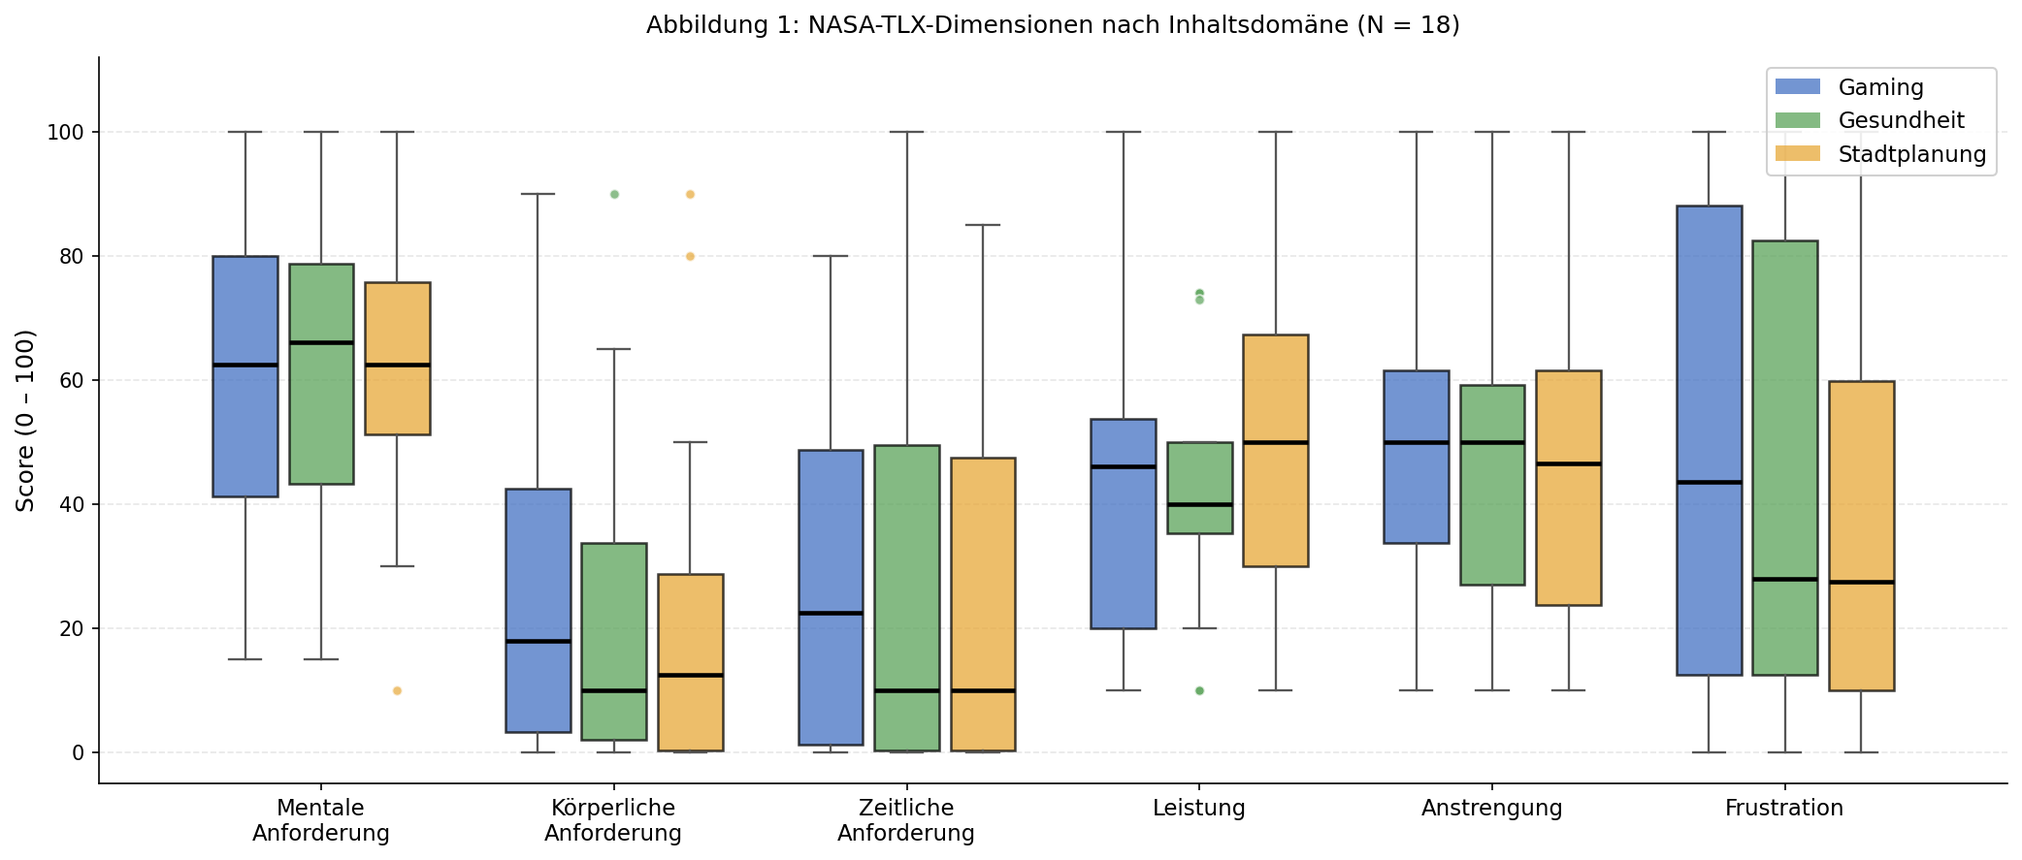
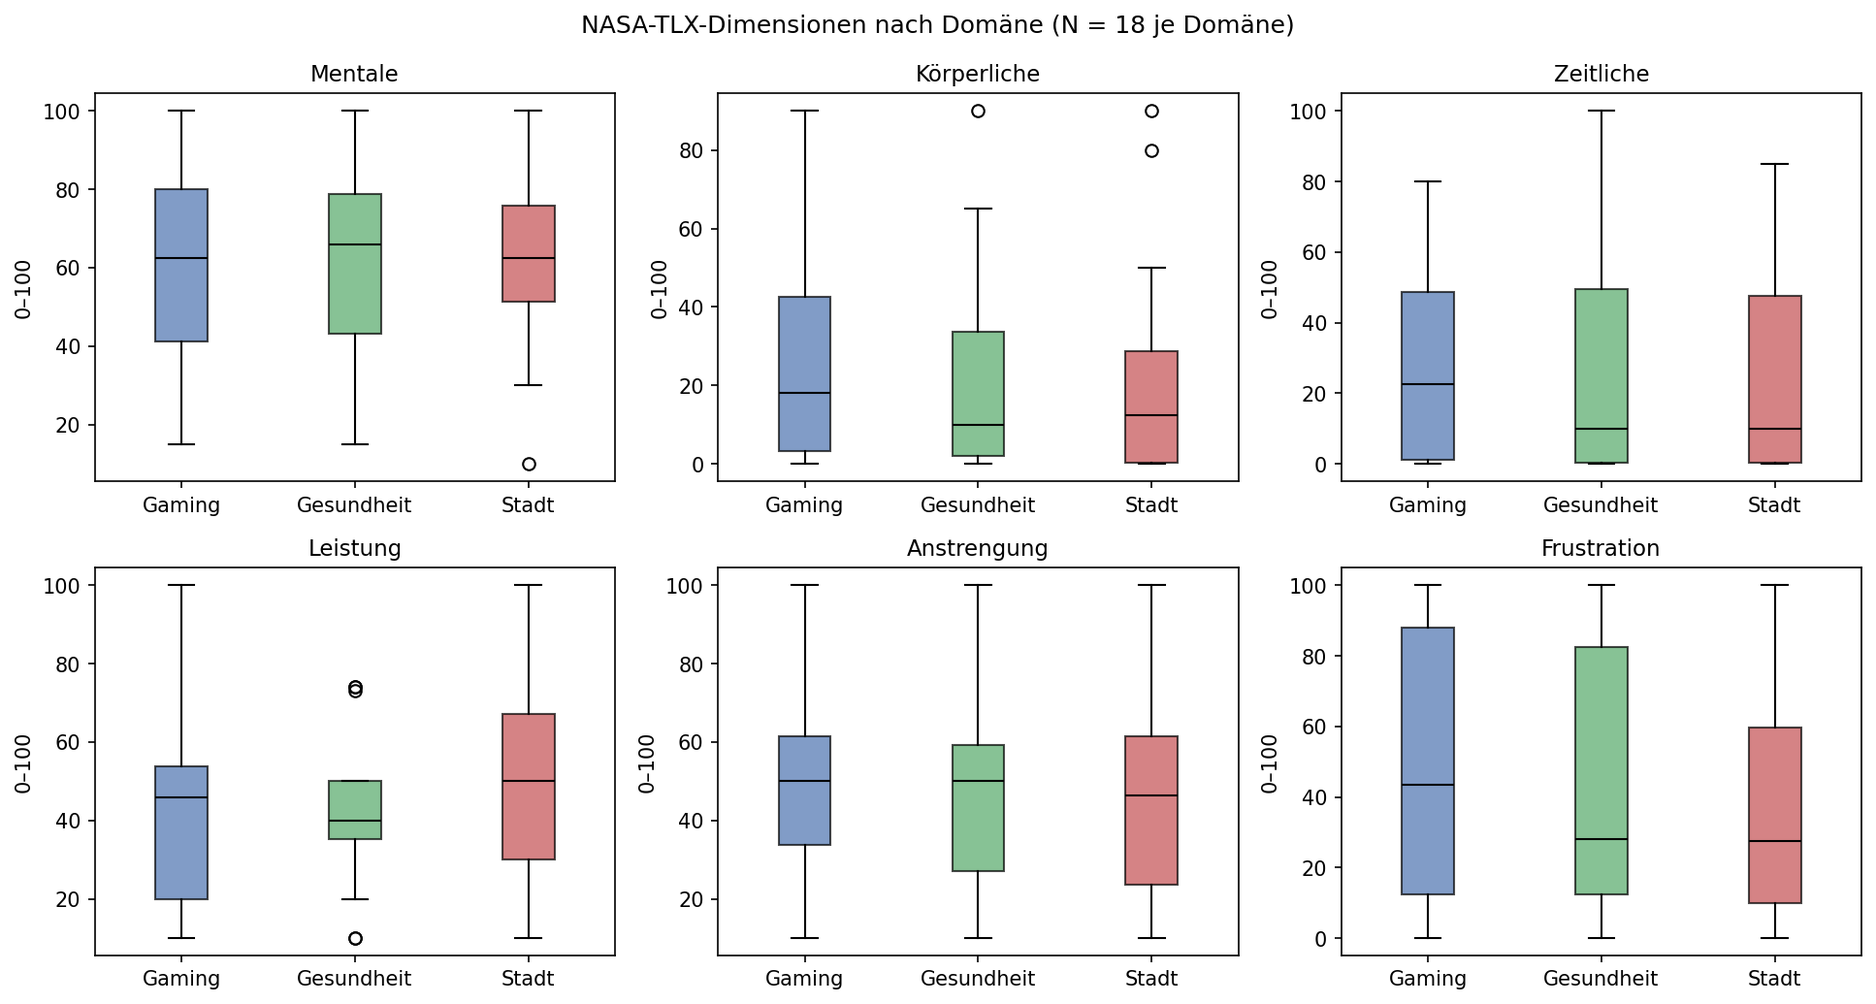
Politur-Runde: Tabelle 2 exakt reproduzierbar, Abbildung 1 gescriptet, Robustheitsvarianten, pandas-4-Migration (Review10-Liste)
- Tabelle 2 (Paper 1) reproduziert sich mit FIFO-Paarung + >600-s-
  Artefakt-Ausschluss EXAKT aus check_correlations.py (City-Mittel
  68,7; Artefakt 848,6 s); SDs auf Stichproben-SD (ddof=1) wie Tabelle 1
  vereinheitlicht; Verfügbarkeits-Ausnahmen entfallen — Paper 1 ist
  damit vollständig reproduzierbar (alle Tabellen, beide Abbildungen).
- Abbildung 1 (TLX-Boxplots) wird jetzt von check_correlations.py
  erzeugt und regeneriert.
- Paper 2: StratifiedKFold-Variante (0,936, balancierte Accuracy 0,928 —
  die schwachen unstratifizierten Folds sind ein Schichtungsartefakt)
  und Log-Transform-Variante (0,462; Rechtsschiefe erklaert den Baseline-
  Abstand praktisch nicht) in Skript, 3.2, 4.3, 4.5 und Fazit.
- pandas-4: is_categorical_dtype durch isinstance(dtype, CategoricalDtype)
  ersetzt (keine Deprecation-Warnung mehr).

diff --git a/check_correlations.py b/check_correlations.py
@@ -173,6 +173,72 @@ def task_event_counts(data_dir: Path | str = DATA_DIR) -> tuple[int, int]:
     return starts, ends
 
 
+ARTIFACT_THRESHOLD_S = 600.0  # >10 min gilt als Datenerfassungsstörung (T-3/Stadt-FIFO-Artefakt)
+
+
+def task_level_table2(data_dir: Path | str = DATA_DIR) -> dict[str, dict[str, float]]:
+    """Tabelle 2 (Paper 1): Aufgabendauern je Domäne, FIFO-Paarung über
+    build_timeline, Ausreißer-Ausschluss >600 s (das verwaiste-Start-
+    Artefakt in T-3/Stadt). Reproduziert die Paper-Werte exakt."""
+    import numpy as np
+    from src.preprocessing.segmentation import build_timeline
+
+    per_domain: dict[str, list[float]] = {}
+    for trial in load_trials_from_dir(str(data_dir)):
+        for seg in build_timeline(trial.trial_id, trial.events).segments:
+            if seg.segment_type == "task" and seg.is_complete and seg.domain:
+                per_domain.setdefault(seg.domain, []).append(
+                    (seg.end_ms - seg.start_ms) / 1000.0)
+
+    out = {}
+    for d, vals in per_domain.items():
+        a = np.array(vals)
+        art = a[a > ARTIFACT_THRESHOLD_S]
+        a = a[a <= ARTIFACT_THRESHOLD_S]
+        out[d] = {"n": len(a), "M": float(a.mean()), "SD": float(a.std(ddof=1)),
+                  "min": float(a.min()), "max": float(a.max()),
+                  "n_artifacts": len(art), "artifact_s": art.tolist()}
+    return out
+
+
+def make_tlx_boxplot(data_dir: Path | str = DATA_DIR,
+                     out_path: Path = Path("figures/paper1_abb1_tlx_boxplot.png")) -> None:
+    """Abbildung 1 (Paper 1): Boxplots der sechs NASA-TLX-Dimensionen je
+    Domäne."""
+    import matplotlib.axes
+    from src.loaders.trial_loader import load_trials_from_dir
+
+    dims = ["mentale", "koerperliche", "zeitliche", "leistung", "anstrengung", "frustration"]
+    labels = ["Mentale", "Körperliche", "Zeitliche", "Leistung", "Anstrengung", "Frustration"]
+    data = {d: {dim: [] for dim in dims} for d in ("gaming", "health", "city")}
+    for trial in load_trials_from_dir(str(data_dir)):
+        for e in trial.events:
+            if e.label.lower() == "tlx:submit":
+                d = e.meta.get("domain")
+                s = e.meta.get("scores") or {}
+                if d in data:
+                    for dim in dims:
+                        v = s.get(dim)
+                        if isinstance(v, (int, float)):
+                            data[d][dim].append(float(v))
+
+    fig, axes = plt.subplots(2, 3, figsize=(13, 7))
+    colors = {"gaming": "#4C72B0", "health": "#55A868", "city": "#C44E52"}
+    for ax, dim, lab in zip(axes.flat, dims, labels):
+        ax.boxplot([data[d][dim] for d in ("gaming", "health", "city")],
+                   tick_labels=["Gaming", "Gesundheit", "Stadt"], patch_artist=True,
+                   medianprops=dict(color="black"))
+        for patch, d in zip(ax.patches, ("gaming", "health", "city")):
+            patch.set_facecolor(colors[d]); patch.set_alpha(0.7)
+        ax.set_title(lab, fontsize=11)
+        ax.set_ylabel("0–100")
+    fig.suptitle("NASA-TLX-Dimensionen nach Domäne (N = 18 je Domäne)")
+    fig.tight_layout()
+    out_path.parent.mkdir(exist_ok=True)
+    fig.savefig(out_path, dpi=150, bbox_inches="tight")
+    plt.close(fig)
+
+
 def _require_data() -> bool:
     if not DATA_DIR.exists():
         print(f"Hinweis: {DATA_DIR} fehlt — die Experiment-Rohdaten sind aus "
@@ -188,6 +254,13 @@ def main() -> None:
     import numpy as np
     s, e = task_event_counts()
     print(f"task:start/-end gesamt: {s}/{e}")
+
+    print("\nTabelle 2-Nachbau (FIFO, aufgabenebene, Artefakte >600 s ausgeschlossen):")
+    for d, row in sorted(task_level_table2().items()):
+        print(f"  {d:8} n={row['n']} M={row['M']:6.1f} SD={row['SD']:5.1f} "
+              f"min={row['min']:5.1f} max={row['max']:6.1f} "
+              f"(Ausreißer: {row['n_artifacts']}, {row['artifact_s']})")
+
     durs = position_durations()
     print("Bearbeitungszeit je Aufgabenposition (Restart-Paarung):")
     for i, viz in enumerate(VIZ_ORDER):
@@ -248,6 +321,10 @@ def main() -> None:
     plt.savefig(out, dpi=150, bbox_inches="tight")
     print(f"Gespeichert: {out}")
     plt.close(fig)
+
+    # Abbildung 1: TLX-Boxplots je Domäne
+    make_tlx_boxplot()
+    print("Gespeichert: figures/paper1_abb1_tlx_boxplot.png")
 
 
 if __name__ == "__main__":

diff --git a/check_web_analysis.py b/check_web_analysis.py
@@ -139,6 +139,36 @@ def stability(df: pd.DataFrame, seed: int = SEED_STABILITY,
     return float(np.mean(aris)), float(np.min(aris))
 
 
+def stratified_cv(df: pd.DataFrame, labels) -> dict:
+    """StratifiedKFold-Variante (5 Folds, Seed 42) plus balancierte
+    Accuracy der out-of-fold-Vorhersagen — Ergänzung zur unstratifizierten
+    Standard-CV, da die Cluster stark unbalanciert sind (30/6/11)."""
+    from sklearn.metrics import balanced_accuracy_score
+    from sklearn.model_selection import StratifiedKFold, cross_val_predict, cross_val_score
+
+    skf = StratifiedKFold(n_splits=5, shuffle=True, random_state=42)
+    rf = RandomForestClassifier(n_estimators=100, random_state=SEED_RF)
+    acc = cross_val_score(rf, df[FEATS], labels, cv=skf)
+    pred = cross_val_predict(rf, df[FEATS], labels, cv=skf)
+    return {
+        "folds": [round(float(v), 3) for v in acc],
+        "mean": float(acc.mean()),
+        "balanced_accuracy": float(balanced_accuracy_score(labels, pred)),
+    }
+
+
+def log_transform_clustering(df: pd.DataFrame) -> dict:
+    """Robustheitsvariante gegen die Rechtsschiefe von link_count und
+    text_length: log1p vor der z-Standardisierung."""
+    Xlog = StandardScaler().fit_transform(np.log1p(df[FEATS]))
+    labels_log = _kmeans(Xlog)
+    ref = _kmeans(StandardScaler().fit_transform(df[FEATS]))
+    return {
+        "silhouette": float(silhouette_score(Xlog, labels_log)),
+        "ari_to_untransformed": float(adjusted_rand_score(ref, labels_log)),
+    }
+
+
 def make_figures(df: pd.DataFrame, labels, out_dir: Path = Path("figures")) -> None:
     out_dir.mkdir(exist_ok=True)
     # Abbildung 1: Merkmalsverteilung (M ± SD, skaliert wie im Paper)
@@ -216,6 +246,13 @@ def main() -> None:
     print(f"\nSilhouette-Bootstrap: M={m:.3f}, 95%-CI [{lo:.3f}, {hi:.3f}]")
     smean, smin = stability(df)
     print(f"Cluster-Stabilität (50 Seeds, rng(0)): M={smean:.3f}, min={smin:.3f}")
+
+    scv = stratified_cv(df, ca["labels"])
+    print(f"StratifiedKFold-CV: {scv['folds']} (M {scv['mean']:.3f}), "
+          f"balancierte Accuracy {scv['balanced_accuracy']:.3f}")
+    lt = log_transform_clustering(df)
+    print(f"Log-Transform: Silhouette {lt['silhouette']:.3f}, "
+          f"ARI zur untransformierten Lösung {lt['ari_to_untransformed']:.3f}")
 
     c = df[FEATS].corr().round(2)
     print(f"Korrelationen: r(link,text)={c.loc['link_count', 'text_length']}, "

diff --git a/src/ui/tabular_tab.py b/src/ui/tabular_tab.py
@@ -73,7 +73,7 @@ def _render_sidebar_filters(df: pd.DataFrame) -> tuple[pd.DataFrame, pd.DataFram
 
         elif pd.api.types.is_object_dtype(
             filtered_df[col]
-        ) or pd.api.types.is_categorical_dtype(filtered_df[col]):
+        ) or isinstance(filtered_df[col].dtype, pd.CategoricalDtype):
             unique_values = df[col].dropna().unique()
             user_cat_input = st.sidebar.multiselect(
                 f"Kategorien {col}", unique_values, default=unique_values

diff --git a/paper_2_webkomplexitaet.md b/paper_2_webkomplexitaet.md
@@ -85,7 +85,7 @@ Das Analyse-Tool ist in Python implementiert (Streamlit-Oberfläche), liest Webs
 
 **Cluster-Stabilität:** Die K-Means-Lösung (`random_state=42`, `n_init=10`) wurde gegen 50 Wiederholungen mit anderen Zufallssaaten verglichen (ARI zur Referenzlösung; Saaten aus `default_rng(0)` im Bereich 1–100.000, damit reproduzierbar). Dieser Check prüft nur algorithmische Konsistenz, nicht inhaltliche Korrektheit.
 
-**Reproduzierbarkeit:** Alle Kennzahlen der Tabellen 1–6 sowie k-Scan, Baseline, Dekorrelation, Importance, CV, Bootstrap und Stabilität erzeugt das Skript `check_web_analysis.py` aus der versionierten Merkmalsdatei `new_web_features.csv` (die ihrerseits exakt der Tool-Pipeline aus den Crawl-Artefakten entspricht); auch beide Abbildungen werden dort erzeugt. Seed-abhängige Größen (Stabilität, Permutation) können sich bei anderen Saaten leicht verschieben.
+**Reproduzierbarkeit:** Alle Kennzahlen der Tabellen 1–6 sowie k-Scan, Baseline, Dekorrelation, Log-Transform-Variante, stratifizierte CV mit balancierter Accuracy, Importance, Bootstrap und Stabilität erzeugt das Skript `check_web_analysis.py` aus der versionierten Merkmalsdatei `new_web_features.csv` (die ihrerseits exakt der Tool-Pipeline aus den Crawl-Artefakten entspricht); auch beide Abbildungen werden dort erzeugt. Seed-abhängige Größen (Stabilität, Permutation) können sich bei anderen Saaten leicht verschieben.
 
 **Baseline-Vergleich:** K-Means (k = 3) nur auf dem z-standardisierten Merkmal `link_count`, verglichen (Silhouette, ARI) mit dem Sechs-Merkmale-Clustering.
 
@@ -160,7 +160,7 @@ Abbildung 2 stellt diese Konfundierung räumlich dar: Die beiden website-reinen 
 | 5-fache CV (Mittelwert) | 0,831 (SD 0,207) |
 | 5-fache CV (Einzel-Folds) | 1,000 / 0,600 / 0,556 / 1,000 / 1,000 |
 
-Der Einzel-Split-Wert überschätzt die tatsächliche Robustheit erheblich, da einzelne CV-Folds auf 55,6 % zurückfallen (SD 20,7 Punkte bei N = 47).
+Der Einzel-Split-Wert überschätzt die tatsächliche Robustheit erheblich, da einzelne CV-Folds auf 55,6 % zurückfallen (SD 20,7 Punkte bei N = 47). Eine stratifizierte Variante (StratifiedKFold, 5 Folds, Seed 42) relativiert diesen Befund: Sie liefert 0,889–1,000 mit einem Mittel von 0,936 und einer balancierten Accuracy von 0,928 — die schwachen unstratifizierten Folds spiegeln also vor allem die Cluster-Unbalanciertheit (30/6/11) in einzelnen Folds wider, nicht unbedingt eine fragile Trennung. Beide Lesarten bleiben im Fazit berücksichtigt: Die Cluster-Labels sind aus den Merkmalen überwiegend rekonstruierbar, der Einzel-Split-Wert von 1,000 bleibt gleichwohl eine optimistische Punktschätzung.
 
 **Tabelle 5: Feature-Importance — MDI vs. Permutation-Importance** *(Reproduktion: `check_web_analysis.py`; Permutation mit dokumentiertem Seed)*
 
@@ -215,6 +215,8 @@ k = 3 liefert nicht den höchsten Score, k = 6 schneidet besser ab. Die Wahl ist
 **Baseline-Vergleich:** Clustering nur auf `link_count` erzielt einen Silhouette-Score von 0,667, deutlich höher als das Sechs-Merkmale-Modell (0,433). Beide Lösungen stimmen nur mäßig überein (ARI = 0,527). In dieser Stichprobe erzeugt die Einzelmetrik eine klarer abgegrenzte Clusterstruktur als der vollständige Merkmalsvektor, was der in 1.2 formulierten Grundannahme widerspricht.
 
 **Dekorrelations-Analyse:** Die Korrelationsmatrix (4.3) legt nahe, dass drei der sechs Merkmale überwiegend dieselbe „Umfang"-Dimension messen (`text_length` und `dom_nodes` korrelieren mit r = 0,81 bzw. 0,72 mit `link_count`). Wird das Clustering auf den dekorrelierten Satz `link_count`, `dom_depth`, `media_count`, `form_count` beschränkt, steigt der Silhouette-Score von 0,433 auf **0,500** — die „gut"-Schwelle wird knapp erreicht, und die Lösung bleibt der 6-Merkmal-Lösung strukturell ähnlich (ARI = 0,717), zur `link_count`-Baseline dagegen deutlich verschieden (ARI = 0,339). Zwei Einschränkungen trüben das Ergebnis: Erstens bleibt auch 0,500 unterhalb der Einzelmetrik-Baseline (0,667) — Redundanz erklärt also einen Teil, aber nicht die ganze Differenz zum Baseline-Vorteil. Zweitens isoliert die dekorrelierte Lösung die extremste bpb.de-Seite (1.187 Links, 54.453 Zeichen) als **Single-Page-Cluster** (Clustergrößen 35/11/1); ein Teil des Silhouette-Gewinns stammt damit aus Ausreißerisolierung, nicht aus sauber getrennten inhaltlichen Gruppen. Das Ergebnis verfeinert die Schlussfolgerung, dreht sie aber nicht: Das mehrdimensionale Modell gewinnt durch Dekorrelation an innerer Güte, der postulierte Mehrwert gegenüber der Einzelmetrik lässt sich auch damit nicht zeigen.
+
+**Log-Transform-Variante:** Da `link_count` und `text_length` ausgeprägt rechtsschief sind (4.1), wurde das Clustering zusätzlich auf log1p-transformierten, z-standardisierten Merkmalen wiederholt. Der Silhouette-Score steigt dabei nur leicht auf 0,462 (ARI 0,609 zur untransformierten Lösung); auch die `link_count`-Baseline bleibt unter Log-Transformierung bei 0,667. Die Rechtsschiefe erklärt damit praktisch nichts des Baseline-Vorteils — das zentrale Robustheitsproblem ist die Merkmalsredundanz, nicht die Verteilungsform.
 
 ### 4.6 Externes Kriterium: Zusammenhang mit realer Antwortzeit
 
@@ -276,7 +278,7 @@ Die beiden Erfassungslücken aus 3.1 unterscheiden sich in der Ursache, nicht nu
 
 ## 6. Fazit
 
-Die zentrale Forschungsfrage ist damit differenziert zu beantworten: Automatisierte Merkmalsextraktion und Clustering von Webseiten sind technisch machbar, ein belastbarer Mehrwert des mehrdimensionalen Modells gegenüber einer Einzelmetrik lässt sich mit dieser Stichprobe dagegen nicht zeigen — auch die Dekorrelations-Analyse (4.5) verbessert das Mehrdimensionale nur auf die „gut"-Schwelle, ohne die Einzelmetrik-Baseline zu erreichen. Jede der in dieser Arbeit durchgeführten Robustheitsprüfungen deckt einen anderen Punkt auf, an dem eine oberflächliche Analyse zu falschen Schlüssen geführt hätte: die suboptimale Cluster-Anzahl, eine durch MDI verzerrte Merkmalsrangfolge, eine durch Einzel-Split überschätzte Modellgüte und eine Einzelmetrik, die im internen Gütekriterium sogar besser abschneidet als das volle Sechs-Merkmale-Modell. Am schwersten wiegt der Befund aus 4.6, denn erst der Test gegen ein unabhängiges Kriterium zeigt, dass die gefundene Clusterstruktur im geprüften Außenkriterium ohne nachweisbaren Effekt bleibt.
+Die zentrale Forschungsfrage ist damit differenziert zu beantworten: Automatisierte Merkmalsextraktion und Clustering von Webseiten sind technisch machbar, ein belastbarer Mehrwert des mehrdimensionalen Modells gegenüber einer Einzelmetrik lässt sich mit dieser Stichprobe dagegen nicht zeigen — auch die Dekorrelations-Analyse (4.5) verbessert das Mehrdimensionale nur auf die „gut"-Schwelle, ohne die Einzelmetrik-Baseline zu erreichen. Jede der in dieser Arbeit durchgeführten Robustheitsprüfungen deckt einen anderen Punkt auf, an dem eine oberflächliche Analyse zu falschen Schlüssen geführt hätte: die suboptimale Cluster-Anzahl, eine durch MDI verzerrte Merkmalsrangfolge, eine durch Einzel-Split überschätzte Modellgüte (stratifiziert 0,94 statt 1,00) und eine Einzelmetrik, die im internen Gütekriterium sogar besser abschneidet als das volle Sechs-Merkmale-Modell. Am schwersten wiegt der Befund aus 4.6, denn erst der Test gegen ein unabhängiges Kriterium zeigt, dass die gefundene Clusterstruktur im geprüften Außenkriterium ohne nachweisbaren Effekt bleibt.
 
 Für die Praxis bedeutet dies, dass ein Werkzeug wie das hier entwickelte Websites strukturell beschreiben kann, aber ohne begleitende externe Validierung keine belastbare Aussage über praktische Relevanz trifft. Für die Methodik folgt daraus eine allgemeinere Lehre für vergleichbare Arbeiten: Cluster-Anzahl, Feature-Importance-Verfahren und Modellbewertung sollten grundsätzlich gegeneinander geprüft werden, bevor aus einem einzelnen Durchlauf Schlüsse gezogen werden.
 

diff --git a/paper_1_kognitive_last.md b/paper_1_kognitive_last.md
@@ -76,7 +76,7 @@ Der NASA-TLX (Raw-Version) wurde nach jedem Domänenblock erhoben (54 Datensätz
 
 Aus den Eventlogs wurden Start-/Endzeitstempel je Aufgabe extrahiert (15 Aufgabensegmente plus Baseline-Segment(e): in der Regel eines, in drei Trials — darunter T-3 — zwei; vgl. 4.4 zur Konsequenz für die Zentrierung). Die in 4.3 verwendete kumulierte Bearbeitungszeit je Domäne ist die Summe der fünf Aufgabendauern eines Domänenblocks. Sampling-Lücken (>3.000 ms; Schwellenwert der Standardeinstellung der Analyseumgebung), doppelte Zeitstempel und Plausibilitätsverletzungen wurden automatisch geprüft. Dabei fanden sich 120 negative Hautleitwert-Samples (physiologisch unmögliche Leitfähigkeiten), verteilt auf fünf Trials (T-3, T-7, T-8, T-12, T-14); diese Werte verbleiben als Rohwerte in den deskriptiven Statistiken (Tabelle 4) und werden in 5.3 als Einschränkung benannt.
 
-Zwei Event-Paarungslogiken kommen zum Einsatz, die sich in einem konkreten Datenartefakt unterscheiden: In T-3/Stadt existiert ein verwaister `task:start` ohne zugehöriges `task:end` (271 Starts stehen 270 Ends gegenüber; die Lücke zum nächsten Start beträgt rund 825 s). Die tabellarische Aufgaben-Auswertung (Tabelle 2) paart nach dem First-In-First-Out-Vertrag der Analyseumgebung und weist diese Lücke daher als eigene, rund 14 Minuten lange Aufgabe aus — daraus resultiert der in 4.2 berichtete Ausreißer. Die Korrelationsauswertung (Tabelle 3) behandelt einen neuen Start derselben Domäne als Neustart und verwirft den verwaisten Start. Beide Berechnungswege wurden eigenständig aus den Rohdaten rekonstruiert; die verbleibende Restdifferenz beim Stadt-Mittelwert (ca. 2 %) ist auf genau dieses Artefakt zurückzuführen und damit geklärt (früher als ungeklärt vermerkt).
+Zwei Event-Paarungslogiken kommen zum Einsatz, die sich in einem konkreten Datenartefakt unterscheiden: In T-3/Stadt existiert ein verwaister `task:start` ohne zugehöriges `task:end` (271 Starts stehen 270 Ends gegenüber; die Lücke zum nächsten Start beträgt rund 825 s). Die tabellarische Aufgaben-Auswertung (Tabelle 2) paart nach dem First-In-First-Out-Vertrag der Analyseumgebung und weist diese Lücke daher als eigene, rund 14 Minuten lange Aufgabe aus — daraus resultiert der in 4.2 berichtete Ausreißer. Die Korrelationsauswertung (Tabelle 3) behandelt einen neuen Start derselben Domäne als Neustart und verwirft den verwaisten Start. Beide Berechnungswege wurden eigenständig aus den Rohdaten rekonstruiert; mit der FIFO-Paarung reproduziert sich Tabelle 2 exakt (Reproduktion: `check_correlations.py`) — die früher beobachtete Restdifferenz von ca. 2 % beim Stadt-Mittelwert entstand durch Vermischung der beiden Paarungslogiken und ist damit geklärt.
 
 Alle berichteten Analysen sind über die Skripte `check_correlations.py`, `check_mixed_model.py` und `check_sensor_deltas.py` aus den Rohdaten reproduzierbar (s. Verfügbarkeitsstatement).
 
@@ -105,17 +105,17 @@ Damit ist die erste Nebenfrage aus 1.2 beantwortet: **Gaming erzeugt die höchst
 
 ![Abbildung 1: NASA-TLX-Boxplot](figures/paper1_abb1_tlx_boxplot.png)
 
-*Boxplots aller sechs NASA-TLX-Dimensionen je Domäne (N = 18). Median, Interquartilsabstand und Ausreißer. Die Boxplot-Mediane zeichnen dasselbe Bild wie die Mittelwerte in Tabelle 1.*
+*Boxplots aller sechs NASA-TLX-Dimensionen je Domäne (N = 18). Median, Interquartilsabstand und Ausreißer. Die Boxplot-Mediane zeichnen dasselbe Bild wie die Mittelwerte in Tabelle 1. Die Abbildung wird von `check_correlations.py` erzeugt.*
 
 ### 4.2 Bearbeitungszeit nach Domäne
 
-**Tabelle 2: Bearbeitungszeit in Sekunden (269 Aufgaben; 1 Ausreißer ausgeschlossen)**
+**Tabelle 2: Bearbeitungszeit in Sekunden (269 Aufgaben; 1 Ausreißer ausgeschlossen; Stichproben-SD; Reproduktion: `check_correlations.py`)**
 
 | Domäne | N | M (s) | SD (s) | Min | Max |
 |---|---|---|---|---|---|
-| Gaming | 90 | 69,6 | 38,5 | 7 | 214 |
-| Gesundheit | 90 | 75,2 | 54,1 | 7 | 310 |
-| Stadt | 89¹ | 68,7 | 32,3 | 16 | 164 |
+| Gaming | 90 | 69,6 | 38,7 | 7 | 214 |
+| Gesundheit | 90 | 75,2 | 54,4 | 7 | 310 |
+| Stadt | 89¹ | 68,7 | 32,5 | 16 | 164 |
 
 ¹ Ein Aufgabenmesswert (T-3, Stadt, 849 s = 14,2 min) wurde als Datenerfassungsstörung eingestuft und ausgeschlossen (N = 89 statt 90). Nach der Ursachenanalyse in 3.3 handelt es sich dabei sehr wahrscheinlich um das FIFO-gepaarte Artefakt des verwaisten Task-Starts. Die übrigen Daten dieses Trials blieben in der Auswertung.
 
@@ -237,7 +237,7 @@ Für die Forschung folgt ein doppelter Bedarf: eine Replikation mit größerer, 
 
 ## Daten- und Analyse-Verfügbarkeit
 
-Die Rohdaten sind aus Datenschutzgründen (physiologische Messungen, Einwilligung durch die Ursprungserhebung) nicht öffentlich. Die Kennzahlen sind über die im Projekt versionskontrollierten Skripte reproduzierbar: `check_correlations.py` (Korrelationen, Abbildung 2, Tabelle 2b, Start-/End-Zählungen), `check_mixed_model.py` (Zentrierung, Bootstrap, Mixed-Model) und `check_sensor_deltas.py` (Tabellen 4 und 5, Messraten, Pupillen-Validität, negative Hautleitwert-Samples). Die Skripte nutzen denselben Lade- und Segmentierungsvertrag wie die Analyseumgebung; zentrale Verarbeitungsschritte sind durch eine automatisierte Testsuite abgesichert. **Ausnahme:** Tabelle 2 (aufgabenebene, 269 Messwerte) stammt aus der tabellarischen Auswertung der Analyseumgebung und wurde nur mit der in 3.3 dokumentierten Restdifferenz von ca. 2 % beim Stadt-Mittelwert rekonstruiert, nicht exakt reproduziert. Abbildung 1 (Boxplot) wurde einmalig erstellt und hat kein erzeugendes Skript.
+Die Rohdaten sind aus Datenschutzgründen (physiologische Messungen, Einwilligung durch die Ursprungserhebung) nicht öffentlich. **Alle Kennzahlen und beide Abbildungen sind über die im Projekt versionskontrollierten Skripte reproduzierbar:** `check_correlations.py` (Korrelationen, Abbildungen 1 und 2, Tabellen 2 und 2b, Start-/End-Zählungen), `check_mixed_model.py` (Zentrierung, Bootstrap, Mixed-Model) und `check_sensor_deltas.py` (Tabellen 4 und 5, Messraten, Pupillen-Validität, negative Hautleitwert-Samples). Die Skripte nutzen denselben Lade- und Segmentierungsvertrag wie die Analyseumgebung; zentrale Verarbeitungsschritte sind durch eine automatisierte Testsuite abgesichert.
 
 ---
 
